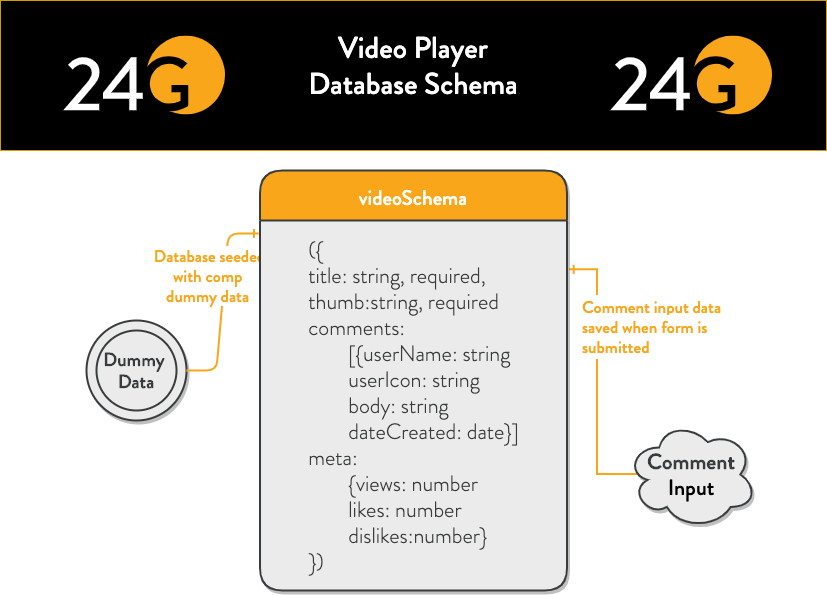
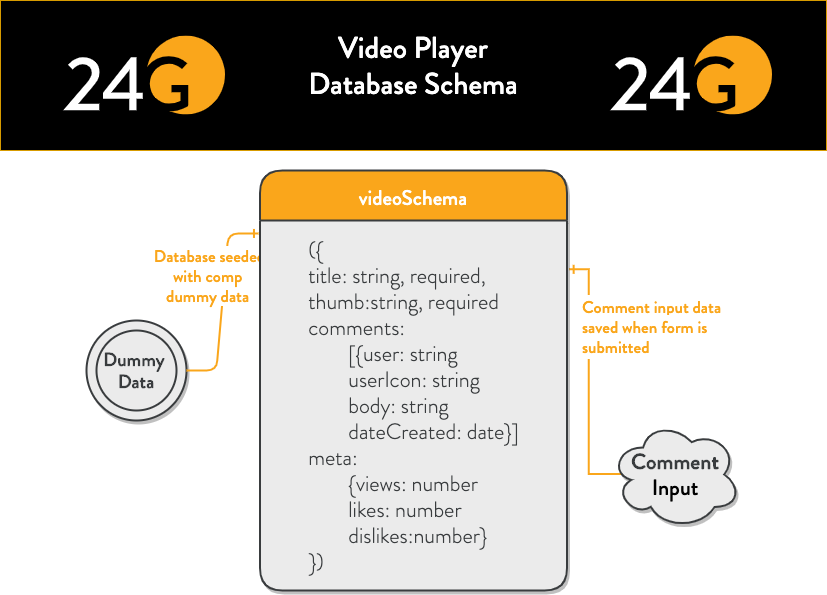
Feature(Server): Finished server and API initial setup
- Add a new data schema image and updated videoSchema file
- Create server routes
- Seed the database with dummy data
- Add routes and queryString to app.js

diff --git a/server/controllers/video.js b/server/controllers/video.js
@@ -1,0 +1,63 @@
+const express = require('express')
+const router = express.Router()
+const mongoose = require('../db/connection')
+const Video = mongoose.model('Video')
+
+router.get('/', (req, res) => {
+  // Source:
+  // https://evanhahn.com/gotchas-with-express-query-parsing-and-how-to-avoid-them/
+
+  if (req.query.hasOwnProperty('title')) {
+    const title = req.query.title
+    Video.findOne({ title })
+      .then(video => {
+        res.json({ video })
+      })
+      .catch(err =>
+        console.log(`Error occurred while attempting to fetch ${title}`, err)
+      )
+  } else {
+    Video.find({})
+      .then(videos => {
+        res.json({ videos })
+      })
+      .catch(err =>
+        console.log('Error occurred while attempting to fetch all videos', err)
+      )
+  }
+})
+
+router.post('/', (req, res) => {
+  Video.create(req.body.video)
+    .then(video => {
+      res.json({ video })
+    })
+    .catch(err =>
+      console.log(
+        `Error occurred while attempting to create ${video.title || ''}`,
+        err
+      )
+    )
+})
+
+router.put('/:id', (req, res) => {
+  Video.findOneAndUpdate({ _id: req.params.id }, req.body, { new: true })
+    .then(video => {
+      res.json({ video })
+    })
+    .catch(err =>
+      console.log(`Error occurred while attempting to update ${title}`, err)
+    )
+})
+
+router.delete('/:id', (req, res) => {
+  Video.findOneAndRemove({ _id: req.params.id })
+    .then(video => {
+      res.json({ video })
+    })
+    .catch(err =>
+      console.log(`Error occurred while attempting to delete ${title}`, err)
+    )
+})
+
+module.exports = router

diff --git a/server/app.js b/server/app.js
@@ -1,9 +1,20 @@
 const express = require('express')
 const app = express()
 const cors = require('cors')
+const VideosController = require('./controllers/video')
 
 app.set('port', process.env.PORT || 5000)
 app.use(cors())
+app.use(express.json())
+app.use(express.urlencoded({ extended: true }))
+
+// Source:
+// https://evanhahn.com/gotchas-with-express-query-parsing-and-how-to-avoid-them/
+app.set('query parser', queryString => {
+  return new URLSearchParams(queryString)
+})
+
+app.use(VideosController)
 
 app.listen(app.get('port'), () => {
   console.log('It is Allllivveee! on PORT', app.get('port'))

diff --git a/server/db/models/video.js b/server/db/models/video.js
@@ -7,7 +7,7 @@ const videoSchema = new Schema({
   title: { type: String, required: true },
   thumb: { type: String, required: true },
   comments: [
-    { userName: String, userIcon: String, body: String, dateCreated: Date }
+    { user: String, userIcon: String, body: String, dateCreated: Date }
   ],
   meta: {
     views: Number,
@@ -16,6 +16,6 @@ const videoSchema = new Schema({
   }
 })
 
-const Video = mongoose.model('Video', videoSchema)
+mongoose.model('Video', videoSchema)
 
-module.exports = Video
+module.exports = mongoose

diff --git a/server/db/connection.js b/server/db/connection.js
@@ -9,7 +9,7 @@ try {
   handleError(error)
 }
 // Error handle method
-const handleError = error => {
+function handleError(error) {
   console.error('Error occurred while attempting to connect', error)
 }
 
